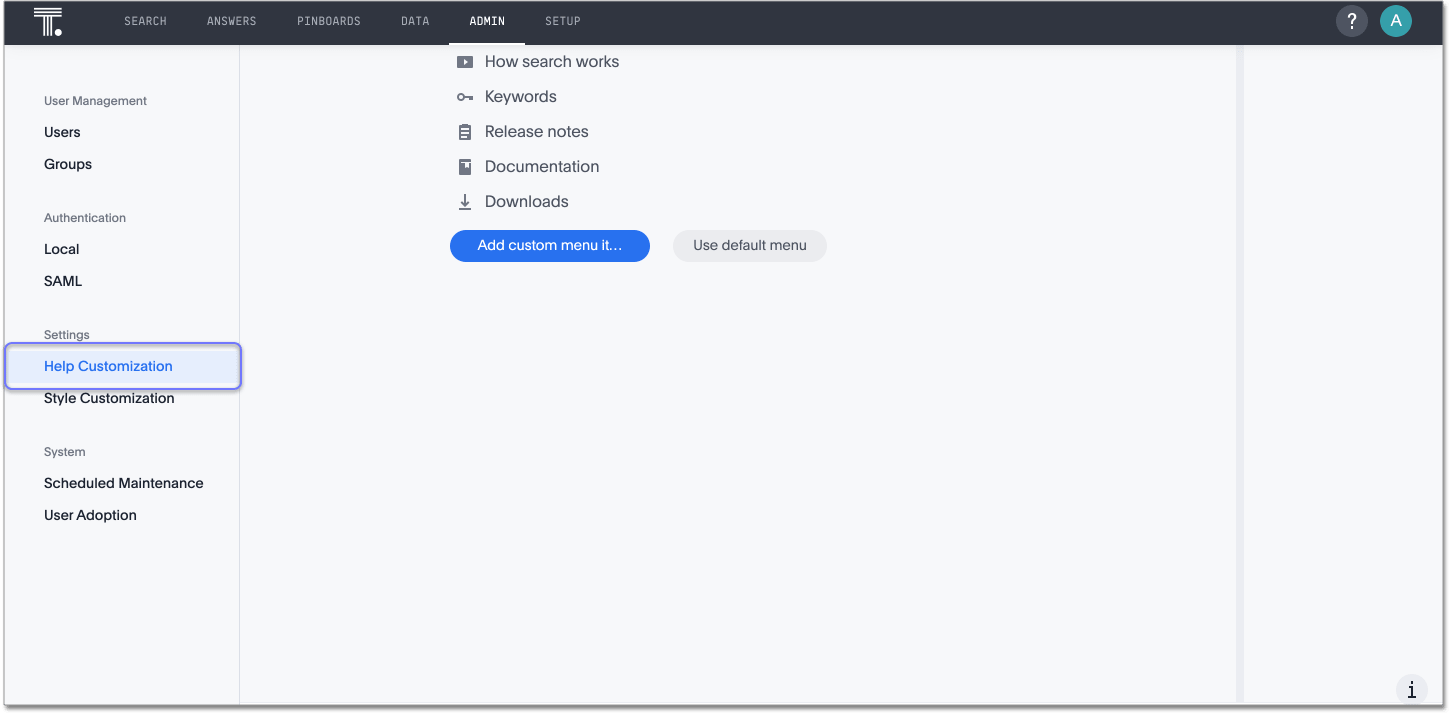
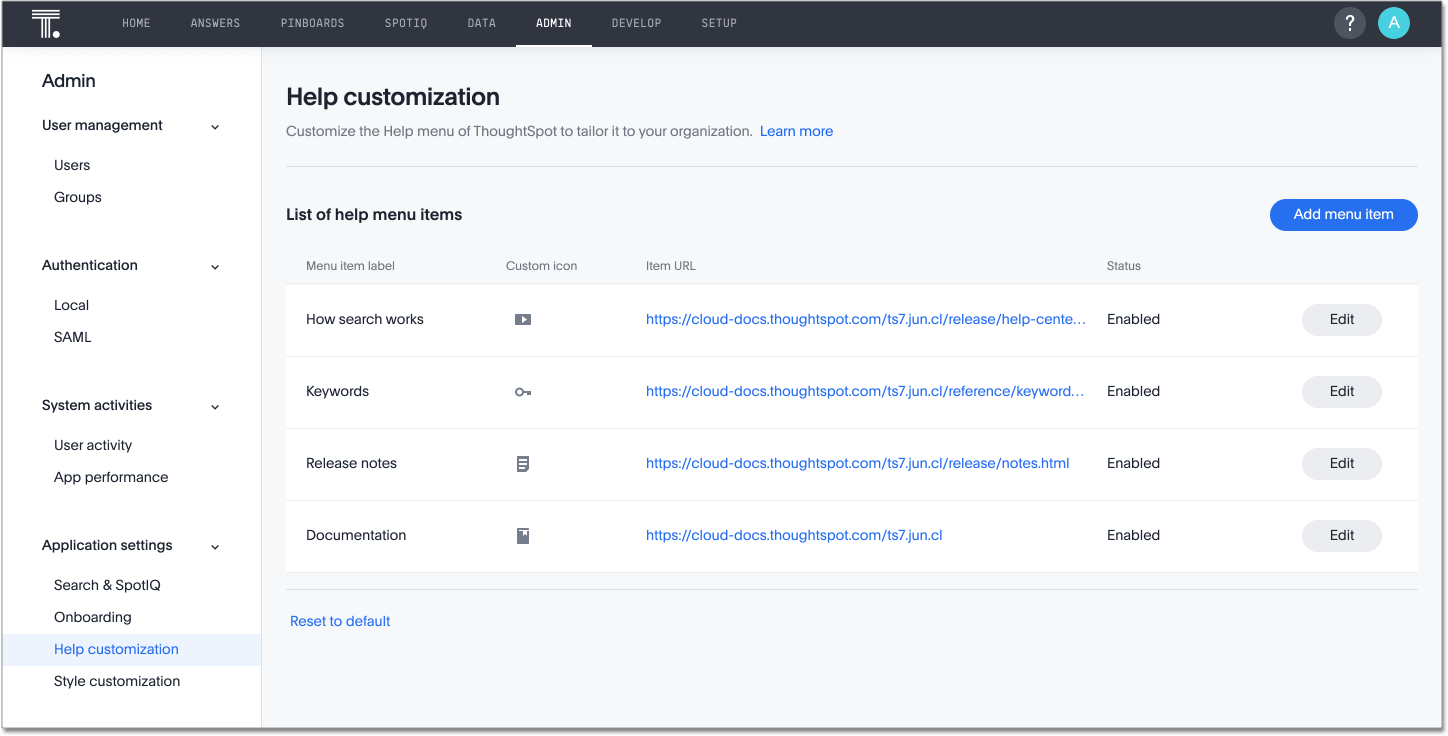
SCAL-88827 new help customization UI

diff --git a/_admin/ts-cloud/customize-help.md b/_admin/ts-cloud/customize-help.md
@@ -1,6 +1,6 @@
 ---
 title: [Customize ThoughtSpot Help]
-last_updated: 12/15/2020
+last_updated: 6/29/2021
 summary: You can customize ThoughtSpot Help to be specific to your data, examples, and documentation.
 sidebar: mydoc_sidebar
 permalink: /:collection/:path.html
@@ -24,24 +24,12 @@ include documentation specific to your company, such as information about the
 data available in ThoughtSpot, where to get support internally, or
 company-specific training.
 
-To customize the Help menu, navigate to the Admin Console by clicking on the **Admin** tab from the top navigation bar. Select **Help Customization** from the side navigation bar that appears.
+To customize the Help menu, navigate to the Admin Console by clicking on the **Admin** tab from the top navigation bar. Select **Help customization** from the side navigation bar that appears.
 
 ![Admin Console - Help customization]({{ site.baseurl }}/images/admin-portal-help-customization.png "Admin Console - Help customization")
 
-To add a new link, select **Add custom menu item** below the list of existing links.
+To add a new link, select **Add menu item** above the list of existing links. Specify the name of the link, the URL, and optionally add a custom icon. Then click **Save**.
 
-![Add a new link]({{ site.baseurl }}/images/admin-portal-help-customization-add.png "Add a new link")
+You can edit existing links, change icons, or remove items from the help menu altogether. To edit or delete a link, hover over the menu item and click the **Edit** button. Then, to delete the link, select **Delete item** from the Edit page. Specify the new information, and click **Save**.
 
-Specify the name of the link, the URL, and optionally add a custom icon. Then click **Confirm**.
-
-![Add a new link]({{ site.baseurl }}/images/admin-portal-help-customization-add-link.png "Add a new link")
-
-You can also edit existing links, change icons, or remove items from the help menu altogether.
-
-To edit or delete a link, hover over the menu item and click the **Edit** or **Delete** button.
-
-![Edit or delete items]({{ site.baseurl }}/images/admin-portal-help-customization-edit.png "Edit or delete items")
-
-Specify the new information, and click **Confirm**.
-
-![Edit a link]({{ site.baseurl }}/images/admin-portal-help-customization-edit-link.png "Edit a link")
+You can also reset the help menu to the default. The default menu contains the following links: the *How search works* video, a link to the keyword reference, a link to the release notes, and a link to this documentation. To reset the help menu, select **Reset to default**, under the list of existing links.
